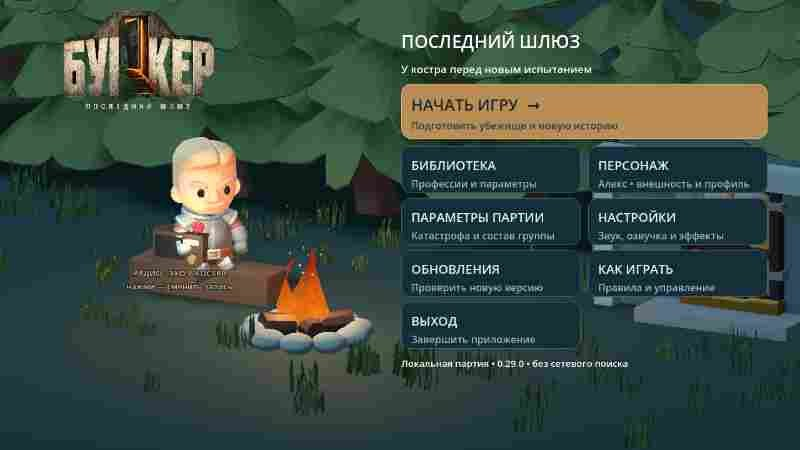
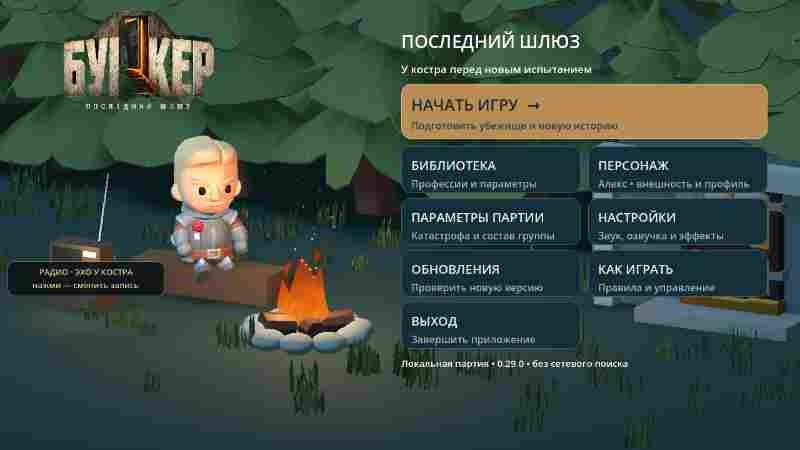
Bunker 0.29: document the score and the camp radio

diff --git a/website/index.html b/website/index.html
@@ -32,8 +32,8 @@
         <div class="eyebrow"><span class="status-dot"></span> ANDROID · ИГРА В РАЗРАБОТКЕ</div>
         <h1>Когда мир<br>закончится,<br><em>кто останется?</em></h1>
         <p class="hero-copy">Мест в убежище хватит не всем. Раскрой свою историю, убеди остальных и попробуй пережить катастрофу.</p>
-        <div class="hero-actions"><a class="button button-primary apk-link" href="https://github.com/AlfaGideon/Bunker/releases/download/android-28/Bunker-Posledniy-Shlyuz-28.apk"><span class="download-icon">↓</span> Скачать на Android <span class="button-arrow">↗</span></a><a class="button button-outline" href="#how"><span class="play-icon">▶</span> Узнать об игре</a></div>
-        <div class="hero-note"><span>Бесплатный прототип</span><i></i><span>APK · <span class="release-version">0.28</span></span><i></i><span>Русский язык</span></div>
+        <div class="hero-actions"><a class="button button-primary apk-link" href="https://github.com/AlfaGideon/Bunker/releases/download/android-29/Bunker-Posledniy-Shlyuz-29.apk"><span class="download-icon">↓</span> Скачать на Android <span class="button-arrow">↗</span></a><a class="button button-outline" href="#how"><span class="play-icon">▶</span> Узнать об игре</a></div>
+        <div class="hero-note"><span>Бесплатный прототип</span><i></i><span>APK · <span class="release-version">0.29</span></span><i></i><span>Русский язык</span></div>
       </div>
       <div class="hero-bottom wrap"><a href="#about" class="scroll-hint"><span class="scroll-line"></span> ЛИСТАЙТЕ ВНИЗ</a><span class="concept-note">Иллюстрация атмосферы игры</span><span class="hero-index">01 / 04</span></div>
     </section>
@@ -62,6 +62,7 @@
         <figure class="shot"><img src="assets/bunker.jpg" alt="Бункер и карта текущего говорящего справа" loading="lazy"><figcaption><span>01 / УБЕЖИЩЕ</span><span>Карта того, кто говорит ↗</span></figcaption></figure>
         <figure class="shot"><img src="assets/vote.jpg" alt="Окно голосования с участниками и таймером" loading="lazy"><figcaption><span>02 / ГОЛОСОВАНИЕ</span><span>Время сделать выбор ↗</span></figcaption></figure>
         <figure class="shot"><img src="assets/loading.jpg" alt="Персонаж бежит по лесу от костра" loading="lazy"><figcaption><span>03 / ЛАГЕРЬ</span><span>Путь к убежищу ↗</span></figcaption></figure>
+        <figure class="shot"><img src="assets/camp-radio.jpg" alt="Приёмник у костра в главном меню" loading="lazy"><figcaption><span>05 / У КОСТРА</span><span>Своя музыка у огня ↗</span></figcaption></figure>
         <figure class="shot"><img src="assets/radio.jpg" alt="Радиоприёмник с тремя станциями и эфиром других бункеров" loading="lazy"><figcaption><span>04 / РАДИО</span><span>Кто ещё держит передатчик ↗</span></figcaption></figure>
       </div><p class="gallery-hint">← Перетаскивайте или листайте, чтобы увидеть больше →</p>
     </section>
@@ -72,7 +73,7 @@
       <details><summary>Игра бесплатная?<span>+</span></summary><p>Текущий прототип доступен бесплатно. Он находится в разработке и может содержать ошибки.</p></details>
       <details><summary>Как обновить игру?<span>+</span></summary><p>Проверьте обновления в меню приложения или откройте страницу релизов. Скачайте новую версию и подтвердите установку; при одинаковой подписи профиль сохранится.</p></details>
     </div></section>
-    <section id="download" class="download-section"><div class="download-glow" aria-hidden="true"></div><div class="wrap download-inner"><div class="label"><span>06</span> ПОРА РЕШАТЬ</div><h2>Дверь ещё<br><em>открыта.</em></h2><p>Твоя история начинается у последнего шлюза. Попробуй прототип и посмотри, кто останется внутри.</p><div class="download-actions"><a class="button button-primary apk-link" href="https://github.com/AlfaGideon/Bunker/releases/download/android-28/Bunker-Posledniy-Shlyuz-28.apk"><span class="download-icon">↓</span> Скачать APK для Android <span class="button-arrow">↗</span></a><a class="text-link" href="https://github.com/AlfaGideon/Bunker/releases/latest" target="_blank" rel="noopener noreferrer">Все обновления <span>↗</span></a></div><div class="download-meta"><span>ANDROID</span><span>·</span><span>ВЕРСИЯ <span class="release-version">0.28</span></span><span>·</span><span>ПРОТОТИП</span></div><div class="download-ornament" aria-hidden="true">✳</div></div></section>
+    <section id="download" class="download-section"><div class="download-glow" aria-hidden="true"></div><div class="wrap download-inner"><div class="label"><span>06</span> ПОРА РЕШАТЬ</div><h2>Дверь ещё<br><em>открыта.</em></h2><p>Твоя история начинается у последнего шлюза. Попробуй прототип и посмотри, кто останется внутри.</p><div class="download-actions"><a class="button button-primary apk-link" href="https://github.com/AlfaGideon/Bunker/releases/download/android-29/Bunker-Posledniy-Shlyuz-29.apk"><span class="download-icon">↓</span> Скачать APK для Android <span class="button-arrow">↗</span></a><a class="text-link" href="https://github.com/AlfaGideon/Bunker/releases/latest" target="_blank" rel="noopener noreferrer">Все обновления <span>↗</span></a></div><div class="download-meta"><span>ANDROID</span><span>·</span><span>ВЕРСИЯ <span class="release-version">0.29</span></span><span>·</span><span>ПРОТОТИП</span></div><div class="download-ornament" aria-hidden="true">✳</div></div></section>
   </main>
   <footer class="footer"><div class="wrap footer-main"><a class="footer-brand" href="#top"><img src="assets/logo.png" alt="Бункер — Последний шлюз"></a><p>Игра о людях, выборе и том,<br>что ждёт за последней дверью.</p><div class="footer-links"><a href="#about">Об игре</a><a href="#how">Как играть</a><a href="#gallery">Галерея</a><a href="https://github.com/AlfaGideon/Bunker" target="_blank" rel="noopener noreferrer">GitHub ↗</a></div></div><div class="wrap footer-bottom"><span>© 2026 БУНКЕР — ПОСЛЕДНИЙ ШЛЮЗ</span><span>СОЗДАЁТСЯ С НУЛЯ · ДЛЯ ЛЮДЕЙ</span><a href="#top">НАВЕРХ ↑</a></div></footer>
   <script src="script.js" defer></script>

diff --git a/docs/BUILD_STATUS.md b/docs/BUILD_STATUS.md
@@ -1,6 +1,8 @@
 # Проверки и APK
 
-**Текущая версия 0.28:** [APK](https://github.com/AlfaGideon/Bunker/releases/download/android-28/Bunker-Posledniy-Shlyuz-28.apk), [Release](https://github.com/AlfaGideon/Bunker/releases/tag/android-28), [Godot CI](https://github.com/AlfaGideon/Bunker/actions/runs/41126470136), [Android build](https://github.com/AlfaGideon/Bunker/actions/runs/41126470495), [подписанная сборка](https://github.com/AlfaGideon/Bunker/actions/runs/41126471215), [подробности](ITERATION_28.md). Version code 28, package `org.bunker.prototype`, APK 104 314 353 байт, подпись совпадает с 0.27. Радиоприёмник стал карточкой с тремя пунктами: «АВРОРА-7» — 31,75-секундная авторская петля тёмного эмбиента, «БУНКЕРЫ» — передачи других убежищ, которые приходят в эфир каждые 17–24 секунды с приглушённым голосом и попадают в журнал и ленту, «МАЯК 1180» — скрытый сигнал, который разбирает только Связист или Радиотехник (одна передача за раунд, тайник или атмосфера). Новый `tools/test_radio.gd` проверяет станции, звук, эфир, профессиональный доступ и локальность контента. Физическая установка на BL9000 ещё нужна.
+**Текущая версия 0.29:** [APK](https://github.com/AlfaGideon/Bunker/releases/download/android-29/Bunker-Posledniy-Shlyuz-29.apk), [Release](https://github.com/AlfaGideon/Bunker/releases/tag/android-29), [Godot CI](https://github.com/AlfaGideon/Bunker/actions/runs/41139914357), [Android build](https://github.com/AlfaGideon/Bunker/actions/runs/41139914334), [подписанная сборка](https://github.com/AlfaGideon/Bunker/actions/runs/41139914331), [подробности](ITERATION_29.md). Version code 29, package `org.bunker.prototype`, APK 105 212 388 байт, подпись совпадает с 0.28. У радио появилась настоящая музыка: четыре авторские инструментальные пьесы («Эхо у костра», «Зона», «Гудок», «Последний шлюз»), сгенерированные `tools/generate_music.py` без внешних сэмплов. В главном меню у костра стоит собственный приёмник: касание меняет запись, никакого эфира других бункеров там нет. В партии первая станция «АВРОРА-7» переключает те же четыре записи, а приёмник теперь слышно из любой точки бункера. Проверены все Godot-тесты, включая новый радио-тест и проверки лагерного приёмника. Физическая установка на BL9000 ещё нужна.
+
+**Историческая версия 0.28:** [APK](https://github.com/AlfaGideon/Bunker/releases/download/android-28/Bunker-Posledniy-Shlyuz-28.apk), [Release](https://github.com/AlfaGideon/Bunker/releases/tag/android-28), [Godot CI](https://github.com/AlfaGideon/Bunker/actions/runs/41126470136), [Android build](https://github.com/AlfaGideon/Bunker/actions/runs/41126470495), [подписанная сборка](https://github.com/AlfaGideon/Bunker/actions/runs/41126471215), [подробности](ITERATION_28.md). Version code 28, package `org.bunker.prototype`, APK 104 314 353 байт, подпись совпадает с 0.27. Радиоприёмник стал карточкой с тремя пунктами: «АВРОРА-7» — 31,75-секундная авторская петля тёмного эмбиента, «БУНКЕРЫ» — передачи других убежищ, которые приходят в эфир каждые 17–24 секунды с приглушённым голосом и попадают в журнал и ленту, «МАЯК 1180» — скрытый сигнал, который разбирает только Связист или Радиотехник (одна передача за раунд, тайник или атмосфера). Новый `tools/test_radio.gd` проверяет станции, звук, эфир, профессиональный доступ и локальность контента. Физическая установка на BL9000 ещё нужна.
 
 **Историческая версия 0.27:** [APK](https://github.com/AlfaGideon/Bunker/releases/download/android-27/Bunker-Posledniy-Shlyuz-27.apk), [Release](https://github.com/AlfaGideon/Bunker/releases/tag/android-27), [Godot CI](https://github.com/AlfaGideon/Bunker/actions/runs/41121610367), [Android build](https://github.com/AlfaGideon/Bunker/actions/runs/41121610316), [подписанная сборка](https://github.com/AlfaGideon/Bunker/actions/runs/41121610378), [подробности](ITERATION_27.md). Version code 27, package `org.bunker.prototype`, APK 104 039 091 байт, подпись совпадает с 0.26. Боковое меню в партии убрано полностью: справа лежит одна игральная карта персонажа, по умолчанию — карта говорящего с подсветкой, касание другого выжившего просто меняет карту, переворот показывает шесть параметров, «Открыть» разворачивает полное досье. В левом нижнем углу — компактная панель хода с раундом, таймером, способностями, кнопкой действия и единственной кнопкой «☰». Проверены все Godot-тесты, включая новый `tools/test_table_card.gd`, и рендеры карты на столе и её параметров. Физическая установка на BL9000 ещё нужна.
 

diff --git a/README.md b/README.md
@@ -13,9 +13,13 @@
 
 В партии справа лежит вертикальная игральная карта текущего говорящего: она подсвечивается, показывает сгенерированную портретную иллюстрацию обезличенного манекена в снаряжении профессии и по касанию переворачивается к шести параметрам, а «Открыть» разворачивает полное досье с замками. Касание любого выжившего просто меняет карту справа — списка участников и боковой панели больше нет. [Подробности](docs/ITERATION_27.md).
 
-## Текущий APK — 0.28: живое радио
+## Текущий APK — 0.29: музыка у костра и в бункере
 
-[**Скачать APK 0.28**](https://github.com/AlfaGideon/Bunker/releases/download/android-28/Bunker-Posledniy-Shlyuz-28.apk) · [Release](https://github.com/AlfaGideon/Bunker/releases/tag/android-28) · [Подробности](docs/ITERATION_28.md)
+[**Скачать APK 0.29**](https://github.com/AlfaGideon/Bunker/releases/download/android-29/Bunker-Posledniy-Shlyuz-29.apk) · [Release](https://github.com/AlfaGideon/Bunker/releases/tag/android-29) · [Подробности](docs/ITERATION_29.md)
+
+У костра в главном меню появился настоящий приёмник: касание переключает запись, и в нём нет ничего, кроме музыки. Четыре оригинальные пьесы — «Эхо у костра» (гитара, ветер, огонь), «Зона» (медленные пэды), «Гудок» (гул бункера и металл) и «Последний шлюз» (пиано и винил) — написаны генератором `tools/generate_music.py`, без чужих сэмплов и лицензий. В партии та же музыка живёт на станции «АВРОРА-7», а приёмник теперь слышно из любой точки бункера.
+
+![Радио у костра](docs/previews/camp-radio.jpg)
 
 Приёмник в бункере теперь карточка с тремя пунктами. «АВРОРА-7» играет настоящую музыку — 31,75-секундную авторскую петлю тёмного эмбиента. «БУНКЕРЫ» ловят передачи других убежищ: они приходят в эфир сами, звучат приглушённым голосом и попадают в журнал партии и в ленту приёмника. «МАЯК 1180» — скрытый сигнал, который разбирает только Связист или Радиотехник: одна передача за раунд, тайник или предупреждение. Слушать музыку и открытый эфир может любой участник.
 
@@ -29,7 +33,13 @@
 
 ![Поле голосования](docs/previews/vote.jpg)
 
-## Предыдущий APK — 0.27: карта говорящего вместо бокового меню
+## Предыдущий APK — 0.28: живое радио
+
+[**Скачать APK 0.28**](https://github.com/AlfaGideon/Bunker/releases/download/android-28/Bunker-Posledniy-Shlyuz-28.apk) · [Release](https://github.com/AlfaGideon/Bunker/releases/tag/android-28) · [Подробности](docs/ITERATION_28.md)
+
+Приёмник в бункере стал карточкой с тремя пунктами: музыка, передачи других убежищ и маяк 1180, который разбирает только Связист или Радиотехник.
+
+## APK — 0.27: карта говорящего вместо бокового меню
 
 [**Скачать APK 0.27**](https://github.com/AlfaGideon/Bunker/releases/download/android-27/Bunker-Posledniy-Shlyuz-27.apk) · [Release](https://github.com/AlfaGideon/Bunker/releases/tag/android-27) · [Подробности](docs/ITERATION_27.md)
 

diff --git a/docs/RUNNING.md b/docs/RUNNING.md
@@ -1,4 +1,4 @@
-# Запуск локального прототипа — 0.28
+# Запуск локального прототипа — 0.29
 
 ## Исходники
 
@@ -6,6 +6,8 @@
 2. Импортировать корневой `project.godot` и нажать F5.
 3. Откроется отдельное приветственное меню с анимированным персонажем у костра — партия ещё не создана. В нём настроить имя, внешность/оттенок одежды; через «Параметры партии» выбрать 6/8/10 участников и катастрофу. Профиль/настройки сохраняются; сама партия — нет.
 4. Нажать «Начать партию»: настройки сохранятся, загрузится бункер и откроется аварийная сводка. Профессии сразу публичны; при раскрытии биологии внешность определяется её полом и возрастом.
+
+Музыка 0.29: у костра в главном меню стоит приёмник — касание меняет запись, всего четыре пьесы, никаких переговоров других бункеров там нет. Громкость берётся из профиля. В бункере первая станция «АВРОРА-7» крутит те же записи: повторное касание пункта меняет пластинку. Приёмник слышно из любой точки.
 
 Радио 0.28: касание приёмника в комнате или «Помещения и предметы» → «Радио — приёмник и эфир» открывает карточку с тремя пунктами. Пункт «АВРОРА-7» включает музыку, «БУНКЕРЫ» — открытый эфир других убежищ (передачи приходят сами, в журнал и в ленту), «МАЯК 1180» разбирает только Связист или Радиотехник: одна передача за раунд. Партия начинается с тихой музыки на «АВРОРА-7».
 

diff --git a/docs/ITERATION_29.md b/docs/ITERATION_29.md
@@ -39,4 +39,4 @@
 
 ## Сборка
 
-`version/code` 29, версия 0.29.0, package `org.bunker.prototype`; подпись та же, что у 0.28.
+APK 105 212 388 байт, version code 29, версия 0.29.0, package `org.bunker.prototype`; подпись та же, что у 0.28.
